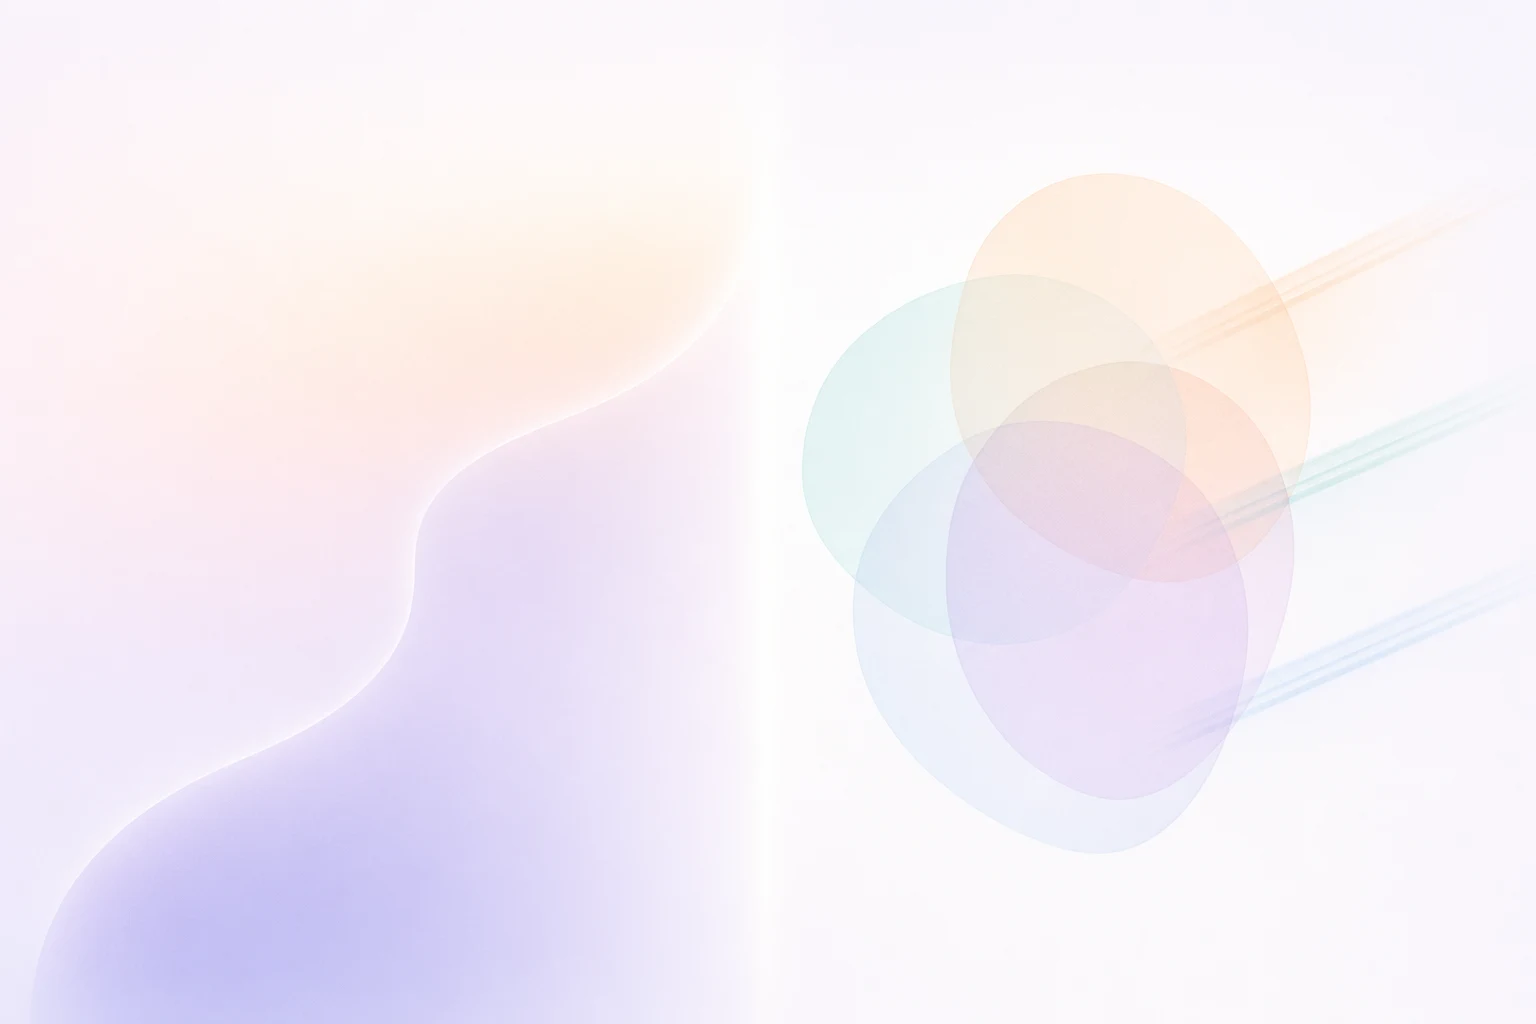
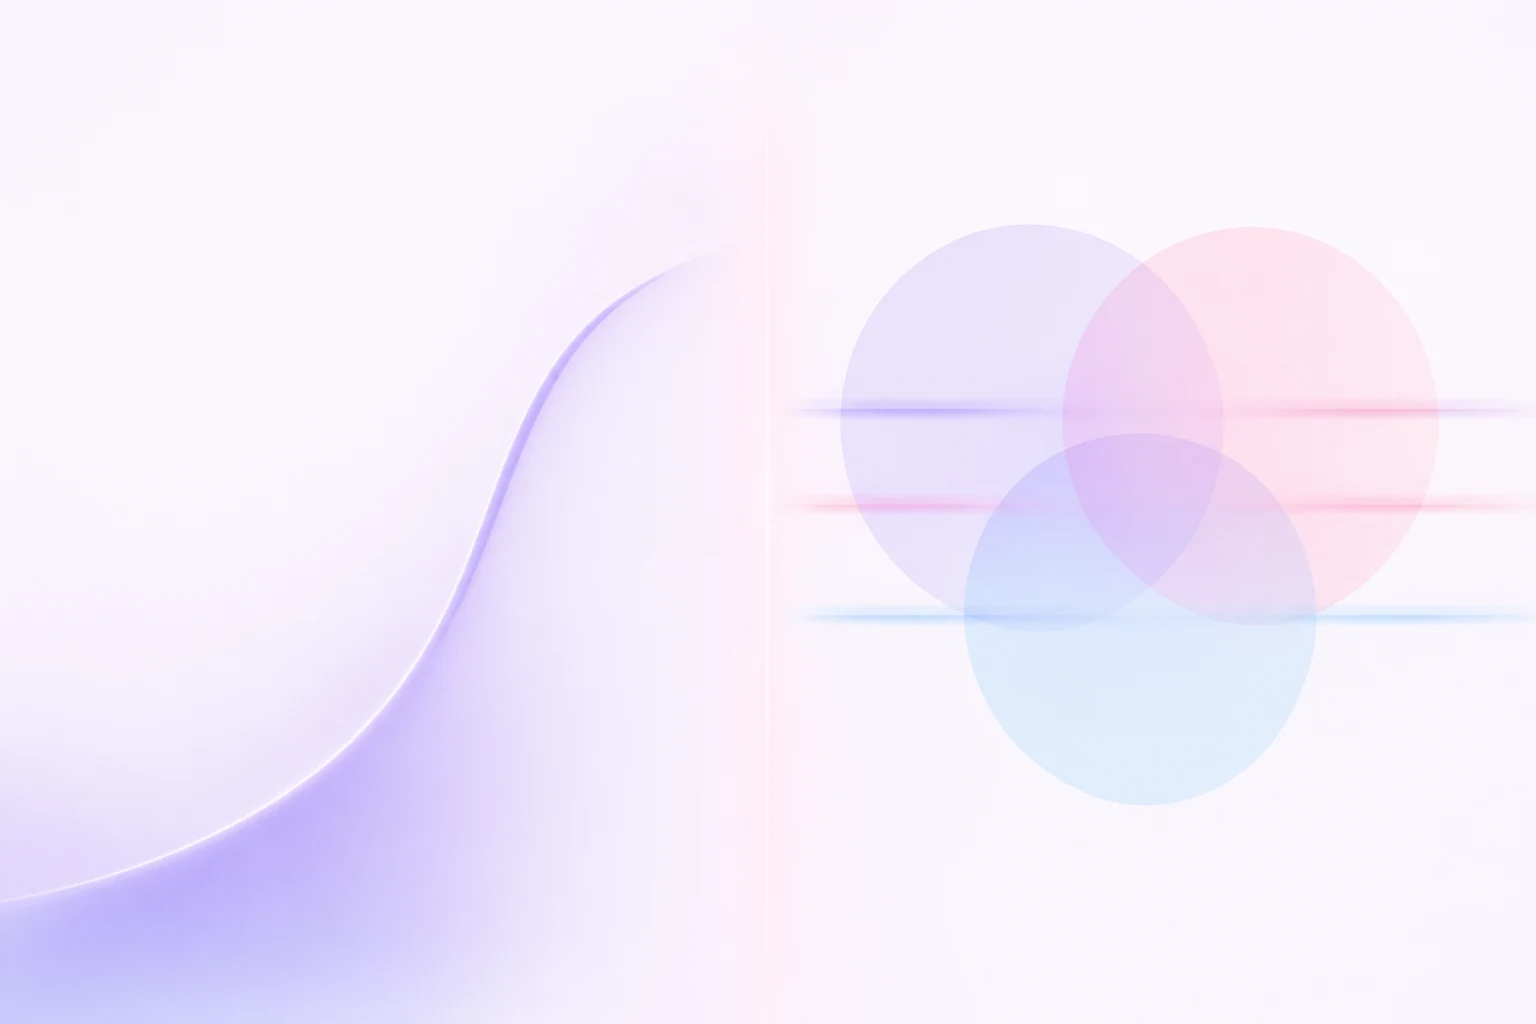
feat(notes/diagrams): filmlook 2図を v3 仕様に同期 (horizontal-flow-8 新設 / aurora 3色)
filmlook-physics-flow を horizontal-flow-8 (新 layout、md:grid-cols-4 4×2 / mobile 1列、
入力 1-2 / 内部 3-7 / 出力 8 の塊を accent dot 濃淡で示す) に再設計。
filmlook-density-mixture を chaos-vs-structured に変更し、縦軸=濃度 / 横軸=色の混ざり
の二軸対比に揃えた。両図の AI 画像 prompt から orange / teal / warm peach / muted teal を
全削除し、aurora purple / pink / sky と accent #8B7FFF のみで再生成。

diff --git a/src/lib/notes/diagrams.ts b/src/lib/notes/diagrams.ts
@@ -6,10 +6,11 @@
  * と meta (public/notes/diagrams/<slug>.meta.json) を生成したうえで
  * このオブジェクトに 1 エントリ足すだけで済むようにしている。
  *
- * layout は 4 種類:
- *   - "chaos-vs-structured": 左=混線/右=構造化レイヤー (correction)
- *   - "centered-axes":       中心ルック + 4方向軸 (grading 4軸マップ)
- *   - "horizontal-flow":     左→右の物理連鎖 (filmlook)
+ * layout は 5 種類:
+ *   - "chaos-vs-structured": 左右対比 (correction-factor-map / filmlook-density-mixture)
+ *   - "centered-axes":       中心ルック + 4方向軸 (grading-look-decomposition)
+ *   - "horizontal-flow":     左→右 4 列ステップ (grading-words-to-knobs)
+ *   - "horizontal-flow-8":   8 段ステップ (filmlook-physics-flow)。desktop は md:grid-cols-4 で 4×2、mobile は 1 列。
  *   - "keypoint-row":        2〜5 項目の番号付きキーポイント (5秒で腹落ち用)
  */
 
@@ -55,6 +56,20 @@ export type HorizontalFlowDiagram = DiagramBase & {
 }
 
 /**
+ * horizontal-flow-8: 8 段の物理パイプライン (filmlook-physics-flow 専用)。
+ * desktop は md:grid-cols-4 で 4×2 派生、mobile は 1 列縦積み。
+ * group は仕様書 v3 の塊 (入力 1-2 / 内部 3-7 / 出力 8) を表し、
+ * note-diagram.tsx 側で行替えなしの薄い区切り線として描く。
+ */
+export type HorizontalFlow8Group = "input" | "internal" | "output"
+export type HorizontalFlow8Diagram = DiagramBase & {
+  layout: "horizontal-flow-8"
+  flowHeading: string
+  steps: { label: string; sublabel: string; group: HorizontalFlow8Group }[]
+  takeaway: string
+}
+
+/**
  * keypoint-row: 2〜5 項目の番号付きキーポイント図解。
  * 各項目は1つの「読み解きの軸」を表し、glyph で軽い視覚アイコンを与える。
  * 図に入る前の一行宣言は DiagramBase.intro を使う。takeaway = 出口の一行。
@@ -79,6 +94,7 @@ export type DiagramConfig =
   | ChaosStructuredDiagram
   | CenteredAxesDiagram
   | HorizontalFlowDiagram
+  | HorizontalFlow8Diagram
   | KeypointRowDiagram
 
 export const DIAGRAM_REGISTRY: Record<string, DiagramConfig> = {
@@ -149,25 +165,25 @@ export const DIAGRAM_REGISTRY: Record<string, DiagramConfig> = {
   },
   "filmlook-physics-flow": {
     slug: "filmlook-physics-flow",
-    layout: "horizontal-flow",
-    title: "フィルムルックを作る物理の流れ",
+    layout: "horizontal-flow-8",
+    title: "フィルムルックを作る物理の 8 段フロー",
     caption:
-      "フィルムルックは雰囲気ではなく、露光、染料層、曲線、光、粒の物理連鎖として読み直せる。デジタル信号が左から流れ、最終ルックへ収束する。",
-    alt: "デジタル信号が露光、3層の染料、分光密度曲線、S字カーブ、プリンターライト、グレインを通って最終的なフィルムルックへ収束する流れの図解",
+      "フィルムルックは雰囲気ではなく、入力 → 内部 → 出力の物理連鎖として読み直せる。デジタル信号と露光が左、フィルム内部の 5 段が中央、最終ルックが右に収束する。",
+    alt: "デジタル信号と露光の入力 2 段、3 層の染料・分光密度曲線・S 字カーブ・プリンタ光・グレインのフィルム内部 5 段、最終ルックの出力 1 段が左から右へ等間隔で並ぶ 8 段フロー図解",
     aspect: { width: 1536, height: 1024 },
-    intro: "左→右で読む。デジタル信号が、染料・曲線・光・粒を通って最終ルックに変わる8段。",
-    flowHeading: "物理連鎖 — 8段のパイプライン",
+    intro: "左→右で読む。入力 2 段 → フィルム内部 5 段 → 出力 1 段の物理パイプライン。",
+    flowHeading: "物理の 8 段フロー",
     steps: [
-      { label: "デジタル信号", sublabel: "scene-linear の入力" },
-      { label: "露光", sublabel: "光がフィルム面に当たる" },
-      { label: "3層の染料", sublabel: "シアン・マゼンタ・イエロー" },
-      { label: "分光密度曲線", sublabel: "波長ごとの吸収応答" },
-      { label: "S字カーブ", sublabel: "トー・ストレート・ショルダー" },
-      { label: "プリンターライト", sublabel: "RGB光で印刷" },
-      { label: "グレイン", sublabel: "非一様な粒子分布" },
-      { label: "最終ルック", sublabel: "映画的な1フレーム" },
+      { label: "デジタル信号", sublabel: "入力", group: "input" },
+      { label: "露光", sublabel: "入力", group: "input" },
+      { label: "3 層の染料", sublabel: "フィルム内部", group: "internal" },
+      { label: "分光密度曲線", sublabel: "フィルム内部", group: "internal" },
+      { label: "S 字カーブ", sublabel: "フィルム内部", group: "internal" },
+      { label: "プリンタ光", sublabel: "フィルム内部", group: "internal" },
+      { label: "グレイン", sublabel: "フィルム内部", group: "internal" },
+      { label: "最終ルック", sublabel: "出力", group: "output" },
     ],
-    takeaway: "フィルムルックは物理で読める。",
+    takeaway: "フィルムルックは、物理の流れで読める。",
   },
   "correction-scope-map": {
     slug: "correction-scope-map",
@@ -240,29 +256,22 @@ export const DIAGRAM_REGISTRY: Record<string, DiagramConfig> = {
   },
   "filmlook-density-mixture": {
     slug: "filmlook-density-mixture",
-    layout: "keypoint-row",
+    layout: "chaos-vs-structured",
     title: "フィルムらしさ = 濃度 + 色の混ざり",
     caption:
-      "ルックは4軸あるが、フィルムを通したかどうかは、ほぼ二軸で見分けがつく。残り2軸は結果として動くだけ。",
-    alt: "フィルムルックの正体を「濃度」と「色の混ざり」の2軸に絞って示すキーポイント図解",
+      "フィルム固有の差は、ルック 4 軸のうち縦軸 (濃度) と横軸 (色の混ざり) の二軸に集約される。残り 2 軸は結果として動くだけ。",
+    alt: "左半分に縦方向の濃度 wedge と S 字カーブ、右半分に 3 層染料のヴェン状重なりと RGB 3 ビームを置き、濃度と色の混ざりの 2 軸を左右で対比する図解",
     aspect: { width: 1536, height: 1024 },
-    intro: "4軸の重みは均等ではない。フィルム固有の差は、二軸に集まる。",
-    itemsHeading: "二軸 — フィルムの正体",
-    items: [
-      {
-        glyph: "density",
-        label: "濃度",
-        sublabel:
-          "どの明るさがどれだけ沈むか。暗部の粘り・S字の肩・対数で効くハイライトのロールオフ。",
-      },
-      {
-        glyph: "mixture",
-        label: "色の混ざり",
-        sublabel:
-          "どの色がどの色に寄るか。3層染料・分光密度曲線・DIRカプラー・プリンター光が決める。",
-      },
+    intro: "フィルムの正体は、二軸に絞れる。",
+    chaosHeading: "濃度（縦軸）",
+    chaosLabels: ["暗部の粘り", "S 字の肩", "対数応答"],
+    structuredHeading: "色の混ざり（横軸）",
+    structuredLayers: [
+      { label: "3 層染料" },
+      { label: "分光密度曲線" },
+      { label: "DIR カプラー" },
+      { label: "プリンター光" },
     ],
-    takeaway: "フィルムの正体は、二軸に絞れる。",
   },
 }
 

diff --git a/src/components/notes/note-diagram.tsx b/src/components/notes/note-diagram.tsx
@@ -3,6 +3,7 @@ import type {
   CenteredAxesDiagram,
   ChaosStructuredDiagram,
   DiagramConfig,
+  HorizontalFlow8Diagram,
   HorizontalFlowDiagram,
   KeypointRowDiagram,
   KeypointRowGlyph,
@@ -70,6 +71,8 @@ function DiagramBody({ config }: { config: DiagramConfig }) {
       return <CenteredAxesBody config={config} />
     case "horizontal-flow":
       return <HorizontalFlowBody config={config} />
+    case "horizontal-flow-8":
+      return <HorizontalFlow8Body config={config} />
     case "keypoint-row":
       return <KeypointRowBody config={config} />
   }
@@ -283,6 +286,50 @@ function CenteredAxesBody({ config }: { config: CenteredAxesDiagram }) {
           ))}
         </ul>
       </div>
+    </div>
+  )
+}
+
+function HorizontalFlow8Body({ config }: { config: HorizontalFlow8Diagram }) {
+  // 8 段は desktop で md:grid-cols-4 の 4×2 派生、mobile は 1 列縦積み。
+  // 仕様書 v3 の塊 (入力 1-2 / 内部 3-7 / 出力 8) は左端の accent dot 列の濃淡で示す
+  // (group が切り替わる箱だけ濃いドット、それ以外は薄いドット)。色ではなく位置と番号で区別する原則を維持。
+  return (
+    <div>
+      <p className="text-[11px] uppercase tracking-[0.22em] text-hp-muted">
+        {config.flowHeading}
+      </p>
+      <ol className="mt-2 grid grid-cols-1 gap-1.5 sm:grid-cols-2 md:grid-cols-4">
+        {config.steps.map((step, i) => {
+          const prev = config.steps[i - 1]
+          const groupChanged = !prev || prev.group !== step.group
+          return (
+            <li
+              key={step.label}
+              className="rounded-[12px] border border-white/55 bg-white/40 px-2.5 py-2"
+            >
+              <p className="flex items-center gap-1.5 text-xs font-semibold text-hp md:text-[0.8rem]">
+                <span className="font-[var(--font-geist-mono)] text-[10px] text-hp-muted md:text-[11px]">
+                  {String(i + 1).padStart(2, "0")}
+                </span>
+                <span
+                  aria-hidden="true"
+                  className={`inline-block h-1.5 w-1.5 rounded-full bg-[var(--accent-primary,#8B7FFF)] ${
+                    groupChanged ? "opacity-90" : "opacity-30"
+                  }`}
+                />
+                {step.label}
+              </p>
+              <p className="mt-0.5 text-[11px] leading-relaxed text-hp-muted md:text-[0.72rem]">
+                {step.sublabel}
+              </p>
+            </li>
+          )
+        })}
+      </ol>
+      <p className="mt-3 text-xs font-semibold text-hp md:text-[0.85rem]">
+        {config.takeaway}
+      </p>
     </div>
   )
 }
